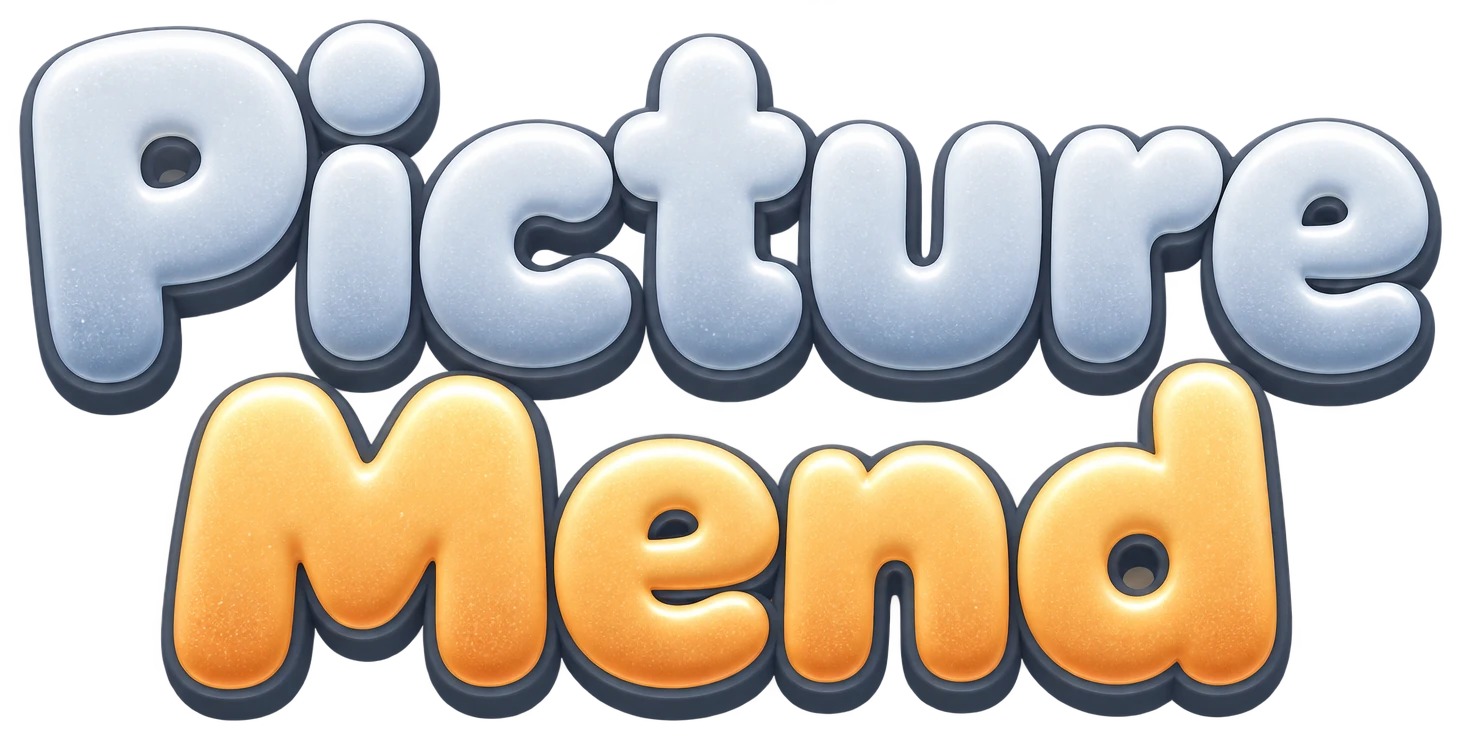
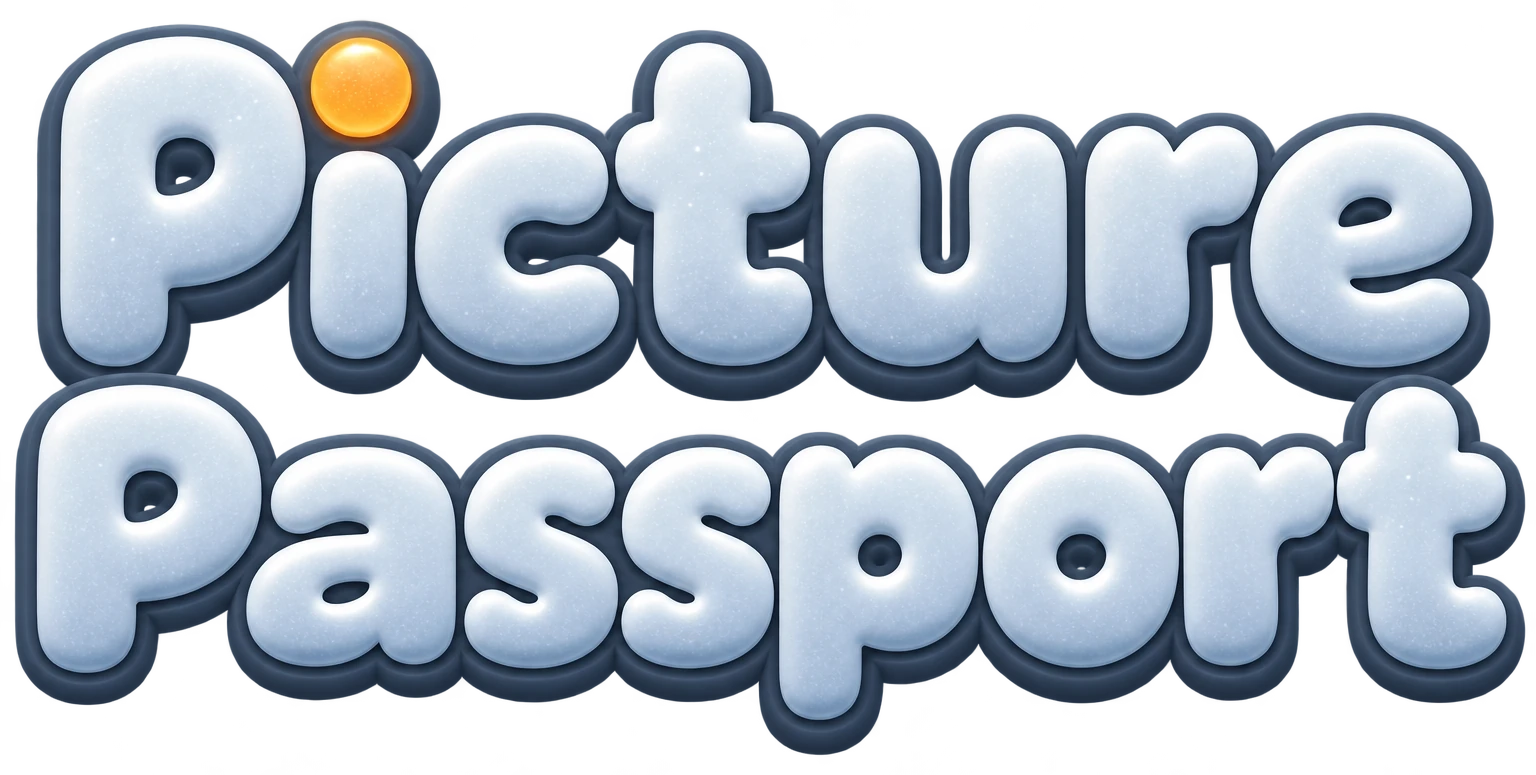
Art: the wordmark becomes "Picture Passport" (creator's new name)
An edit of the Picture Mend master, so the plump frosted letters, blue-grey lip and amber
i-dot stay; the o of Passport is a small amber globe. Same files and widths
(public/art/wordmark.webp 840 px, wordmark-1400.webp), now 2:1 (840x420, 1400x700).
The plain-o version is kept as the alternative master.

diff --git a/tools/art/wordmark.py b/tools/art/wordmark.py
@@ -1,12 +1,14 @@
-"""The home screen's title, "Picture Mend": a generated wordmark, cropped and sized for phones.
+"""The home screen's title, "Picture Passport" (creator, 2026-10-25; it was "Picture Mend"): a
+generated wordmark, cropped and sized for phones.
 
     python tools/art/wordmark.py <raw.png> [<alt-raw.png>]
 
-The raw image is a transparent PNG from the generator (prompt in tools/art/prompts.txt).
+The raw image is a transparent PNG from the generator (prompt in tools/art/prompts.txt); "Picture Passport" was an edit of the
+"Picture Mend" master, so the letters, frost and lip stay the same.
 It is cropped to its letters with a little air, kept as a master in
 tools/art/masters/chrome/, and shipped as public/art/wordmark.webp at WIDTH px wide (the
 title shows about 300-340 CSS px wide on a phone, so this is sharp at 2.5x) and as
-wordmark-1400.webp for big tablets. The master is 1441 px wide: nothing larger without
+wordmark-1400.webp for big tablets. The master is 1529 px wide: nothing larger without
 generating again. An optional
 second raw is kept as the alternative master only (not shipped).
 """

diff --git a/tools/art/chrome-spec.md b/tools/art/chrome-spec.md
@@ -11,7 +11,7 @@ from exactly these numbers: `python tools/art/mockup.py <out.png>`.
 | `table.webp` | the empty winter-dusk table, portrait 1080x1920 (9:16): lanterns in the top corners, snowy pine and holly on the edges, a calm dark middle. Nothing else painted in. | ~92 KB |
 | `stack-back.webp` | one stack card back, straight on, portrait 384x512 (3:4 cards) with alpha: frosted deep blue-grey, one amber dot. | ~27 KB |
 | `snow.png` | four 32x32 white flakes in a 128x32 strip: soft small, soft large/faint, crisp, six-armed crystal. | ~2 KB |
-| `wordmark.webp`, `wordmark-1400.webp` | the title "Picture Mend" in two lines, plump frosted letters on a blue-grey lip, amber dot on the i; alpha, cropped to the letters, 2.07:1. 840x405 (~48 KB) for phones, 1400x675 (~74 KB) for big tablets: use both as a srcset; the big one stays sharp up to ~700 CSS px wide on a 2x screen. | ~48 / 74 KB |
+| `wordmark.webp`, `wordmark-1400.webp` | the title "Picture Passport" in two lines, plump frosted letters on a blue-grey lip, amber dot on the i and an amber globe for the o of Passport; alpha, cropped to the letters, 2:1. 840x420 (~54 KB) for phones, 1400x700 (~77 KB) for big tablets: use both as a srcset; the big one stays sharp up to ~700 CSS px wide on a 2x screen. | ~54 / 77 KB |
 | `ui/icon-*.svg` | slate glyphs, 48x48 viewBox: `gear`, `back`, `undo`, `hint`, `shuffle`, `restart`, `play`, `next`, `home`, `chevron`, `photos`, `route`, `lock`, `check`, `daily`. | <1 KB each |
 
 **Table:** draw it `background-size: cover; background-position: center top` with
